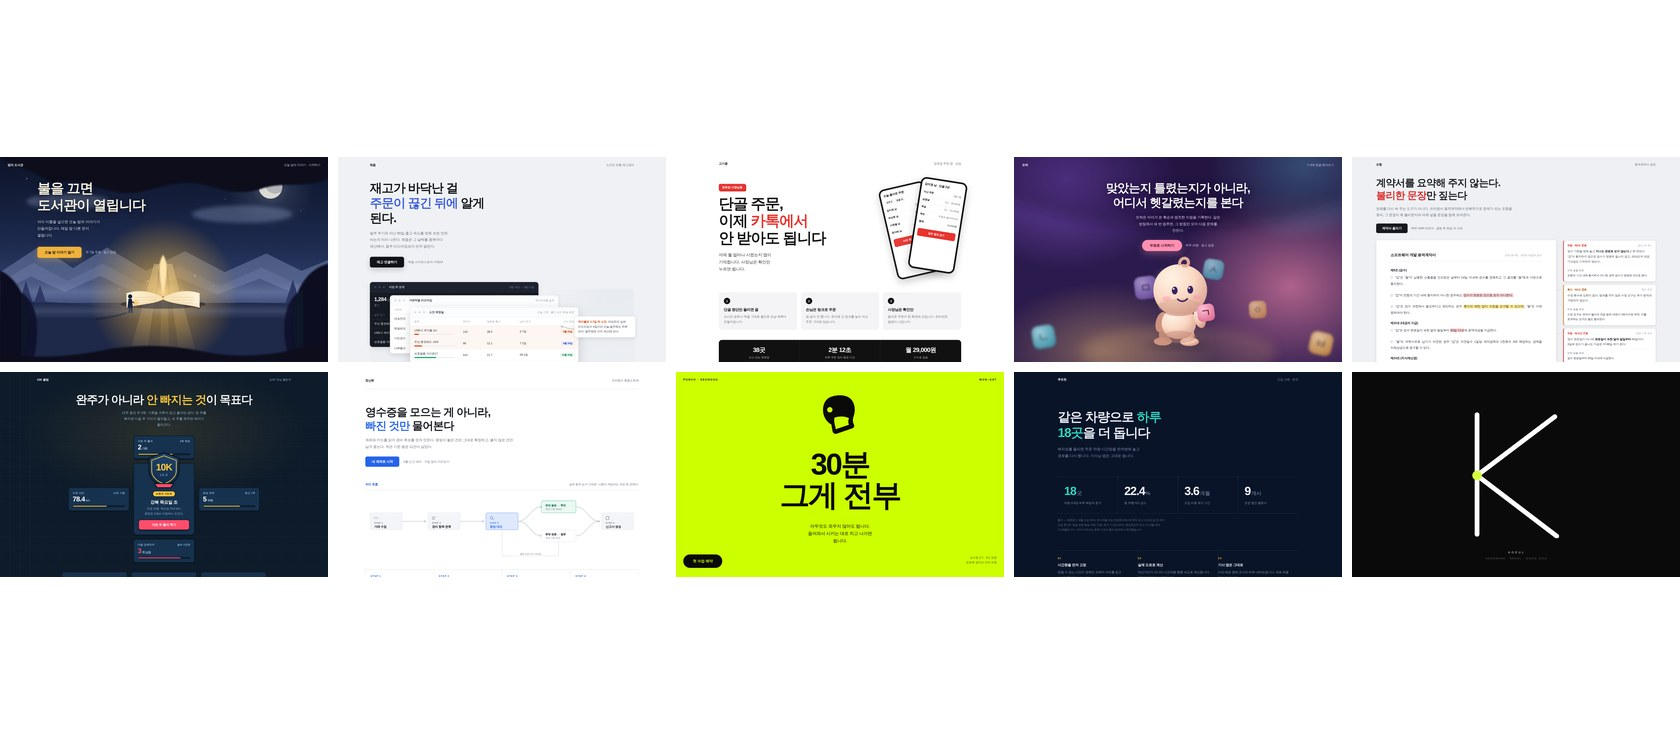
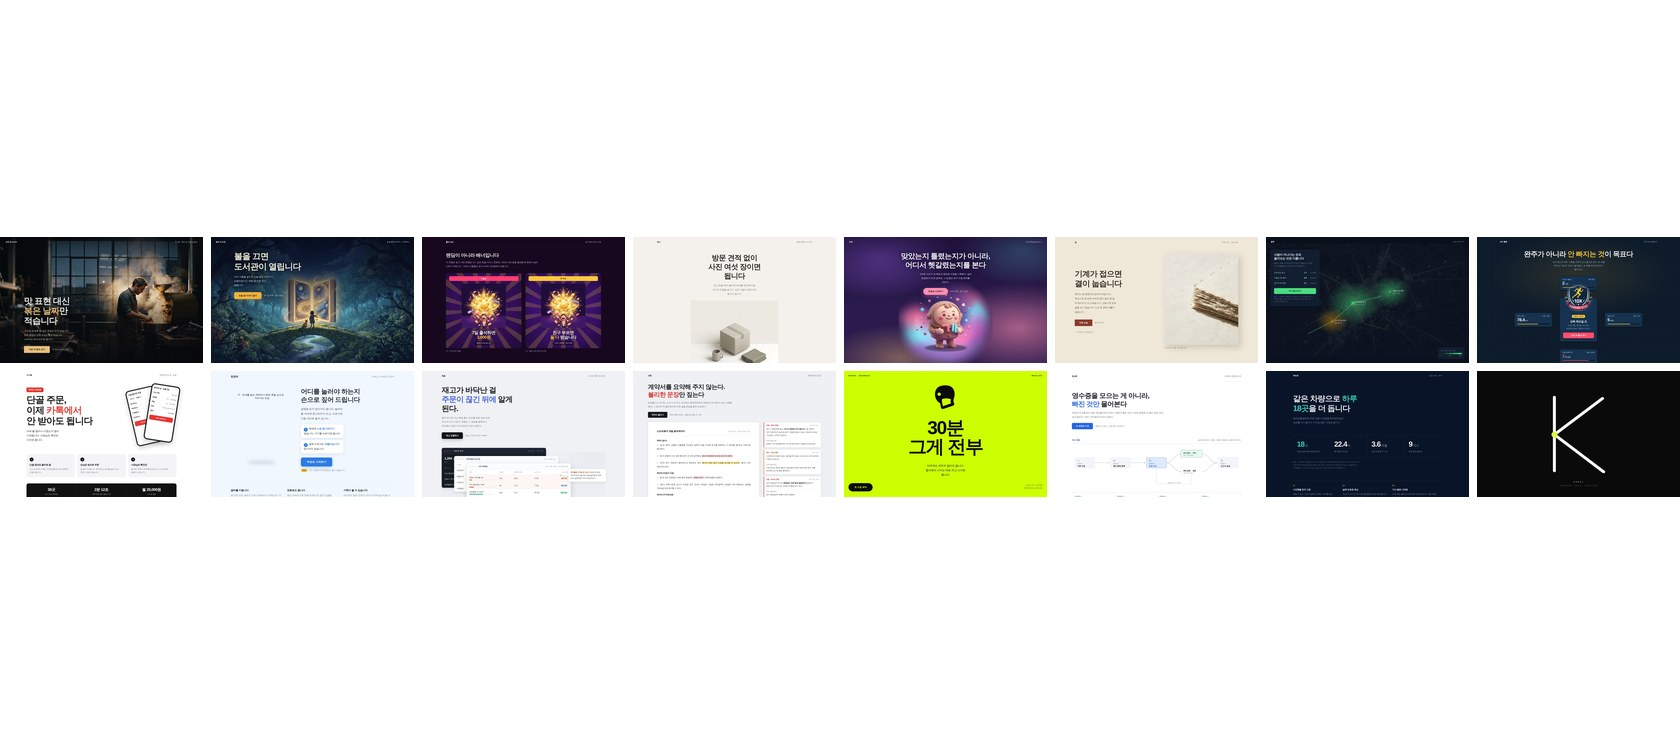
07 / SYSTEM — 16유형으로 확장, AI 이미지 반영
이미지를 쓸 수 있는 유형이 4개뿐이라고 본 것이 오판이었다. 23유형의
imagery 명세를 전부 훑으니 13개가 이미지 주인공이었고, 그중 가장
성격이 다른 6종을 새로 만들어 16벌이 됐다.

항목마다 '명세'(그 유형이 정한 수치)와 '한 일'을 나란히 뒀다.
취향이 아니라 규칙으로 작업한다는 것이 보여야 하기 때문이다.

이 페이지의 논지는 두 쌍에 있다.
- T13 무광 매트, 반사·금속 금지 / T22 3D 렌더, 광택 허용
  같은 3D 인데 재질 규칙이 정반대다.
- 층을 쓸 수 있는 유형 / 평면이 규칙인 유형
  T14 는 그림자 없음, T06 은 그림자 절대 금지다. 여기에 입체를
  넣으면 그 유형이 아니게 된다.

메인 카드 스트립도 16벌 8x2 로 교체했다.
T18·T19 는 생성 이미지 안에 글자가 박혀 나와 재생성 대기 중이다.

검증 — 빌드 통과, JS 에러 0, 안 뜬 이미지 0, 가로 넘침 없음.

Claude-Session: https://claude.ai/code/session_01HZ2ccqveZ9fPxdjPEzqgGf

diff --git a/app/work/design-system/page.tsx b/app/work/design-system/page.tsx
@@ -10,7 +10,7 @@ export const metadata: Metadata = {
   title: "웹디자인 유형 시스템",
   openGraph: {
     title: "웹디자인 유형 시스템",
-    images: ["/img/ds-t23.jpg"],
+    images: ["/img/ds-t09.jpg"],
   },
 };
 
@@ -33,12 +33,28 @@ const GROUPS: { layers: string; head: string; lede: string; items: Sample[] }[] 
       lede: "전경·중경·배경을 분리하고 층마다 그림자 단계와 선명도를 다르게 준다. 23유형 중 7개만 여기에 해당한다.",
       items: [
         {
+          id: "T09",
+          name: "시네마틱 씬",
+          img: "/img/ds-t09.jpg",
+          subject: "새벽 로스터리 — 원두 정기 배송",
+          rule: "21:9 풀블리드 · 역광 + 림라이트 · 색온도 3200~4500K · 전경(흐림) / 중경(초점) / 배경(흐림)",
+          did: "장면을 명세대로 주문해 받았다. 창에서 들어온 역광이 연기를 드러내고 작업자 어깨에 림라이트가 걸린다. 텍스트가 배경에 묻히는 것이 이 유형의 안티패턴이라, 카피가 앉는 아래쪽만 누르는 스크림을 따로 얹고 비네팅과 필름 그레인을 더했다.",
+        },
+        {
           id: "T23",
           name: "판타지 일러스트 렌더",
           img: "/img/ds-t23.jpg",
-          subject: "밤의 도서관 — 심야 서점·도서관 찾기",
-          rule: "전경이 프레임을 감싸 깊이를 만든다 · 배경은 채도 −40%",
-          did: "13겹으로 쌓고 거리에 따라 채도를 떨어뜨렸다. 초점면 밖은 흐리고, 광원 하나에 모든 그림자 방향을 맞췄다. 먼지는 세 가지 속도로 따로 떠다닌다.",
+          subject: "밤의 도서관 — 아이 이름으로 만드는 밤 이야기",
+          rule: "16:9 풀블리드 · 주제는 프레임의 1/3 · 한 컷 안에서 화풍·광원 통일",
+          did: "처음에는 이 장면을 SVG로 직접 그렸는데 그게 이 유형을 평면적으로 만든 원인이었다. placement가 '풀블리드'인 유형은 이미지가 곧 화면이다. 생성 이미지를 배경으로 놓고 SVG는 먼지 파티클만 남겼다.",
+        },
+        {
+          id: "T13",
+          name: "소프트 3D 정물",
+          img: "/img/ds-t13.jpg",
+          subject: "담다 — 사진으로 받는 이사 견적",
+          rule: "1:1 · 하단 2/3 · 무광 매트. 반사·금속 금지",
+          did: "같은 3D인데 아래 T22와 규칙이 정반대다. 여기서는 광택이 보이면 실패다. 상자와 머그, 접은 담요를 무광으로 받아 떠 있는 정물로 놓고 그림자만 반대 위상으로 움직이게 했다.",
         },
         {
           id: "T21",
@@ -46,14 +62,14 @@ const GROUPS: { layers: string; head: string; lede: string; items: Sample[] }[] 
           img: "/img/ds-t21.jpg",
           subject: "채움 — 소규모 유통 재고관리",
           rule: "앞 y18/blur44/16% · 뒤 y8/blur20/10% · 겹침 오프셋 = 패널 폭의 12%",
-          did: "그림자 값을 명세 그대로 썼다. 패널 세 장을 좌상→우하로 계단처럼 놓고, 뒤 한 장만 다크로 바꿔 리듬을 만들었다. 표 안은 실제로 계산이 되는 값만 넣었다.",
+          did: "그림자 값을 명세 그대로 썼다. 패널 세 장을 좌상→우하로 계단처럼 놓고, 뒤 한 장만 다크로 바꿔 리듬을 만들었다. '실제 데이터, 더미 금지'라 표 안은 소진 예정일과 실측 리드타임으로 실제 계산이 되는 값만 넣었다.",
         },
         {
           id: "T18",
           name: "K-커머스 상세페이지",
           img: "/img/ds-t18.jpg",
           subject: "고기왕 — 정육점 단골 주문",
-          rule: "흰 배경 / 뒤 목업 / 앞 목업 · 국문 굵은 타이포",
+          rule: "폰 목업은 높이의 55% · 인물은 4:5, 타깃 연령대 · 고채도",
           did: "화면 두 장을 겹쳐 앞뒤를 만들고, 붉은 강조를 문장 안에서 한 번만 썼다.",
         },
       ],
@@ -64,12 +80,36 @@ const GROUPS: { layers: string; head: string; lede: string; items: Sample[] }[] 
       lede: "바닥 한 장 위에 주제 한 장. 얹는 규칙과 그림자 한 단계가 유형의 성격을 정한다.",
       items: [
         {
+          id: "T22",
+          name: "하이프 광고 배너",
+          img: "/img/ds-t22.jpg",
+          subject: "출석 코인 — 앱 이벤트 배너 소재",
+          rule: "1:1 · 프레임의 55% · 3D 렌더. 광택 허용 · 이펙트 3종까지",
+          did: "위 T13과 나란히 두면 이 시스템이 재질까지 구분한다는 것이 보인다. 여기서는 광택이 규칙이다. 다만 '이 유형을 랜딩 본문에 그대로 사용'하는 것이 안티패턴이라, 산출물을 랜딩이 아니라 정사각 배너 두 벌로만 만들었다.",
+        },
+        {
+          id: "T16",
+          name: "아날로그 텍스처",
+          img: "/img/ds-t16.jpg",
+          subject: "결 — 손으로 매는 노트",
+          rule: "4:5 세로 접사 · 프레임의 45% · 측광. 결이 드러나야 한다 · 여백 60% 이상",
+          did: "'텍스처를 사진 필터로만 얹어 물성이 없는 것'이 이 유형의 첫 번째 안티패턴이다. 그래서 질감을 흉내 내지 않고 한지 단면을 측광으로 받아 섬유 결이 실제로 보이게 했다. 그림자는 측광 방향 하나뿐이다.",
+        },
+        {
           id: "T10",
           name: "그라데이션 마스코트",
           img: "/img/ds-t10.jpg",
           subject: "또박 — 7–9세 한글 받아쓰기",
-          rule: "오브젝트가 마스코트 뒤로 지나간다 · 무광 클레이, 금속·유리 금지",
-          did: "자모 블록이 머리 뒤로 물리게 배치하고, 멀수록 흐리고 옅게 했다. 앞쪽 블록은 프레임 밖으로 잘려 나가 더 가깝게 읽힌다. 광택이 생기면 클레이가 아니라서 빛은 선이 아니라 흐린 얼룩으로 넣었다.",
+          rule: "1:1 · 중앙 하단 · 무광 클레이. 금속·유리 금지 · 전신, 발목 자르기 금지",
+          did: "생성 이미지에 자체 배경이 구워져 나와 사각 경계가 드러났다. radial 마스크로 가장자리를 페이드시켜 페이지 메쉬에 녹였다. 배경은 '보라→파랑 선형'이 AI 기본값이자 안티패턴이라, 핑크·시안·앰버를 벌려 놓은 네 덩어리로 만들었다.",
+        },
+        {
+          id: "T05",
+          name: "데이터·지도 시각화",
+          img: "/img/ds-t05.jpg",
+          subject: "골목 — 상권 유동 분석",
+          rule: "풀블리드 · 패널만 y10/blur30/24%, 데이터 마크에는 그림자 금지 · 순차형 1스케일 + 강조 1색",
+          did: "'축·라벨 없는 가짜 차트'가 안티패턴이라 역할을 나눴다. 생성 이미지는 야간 항공뷰 바탕으로만 쓰고, 히트맵·동선·핀·범례·눈금·출처는 전부 실제 SVG로 얹었다. 표본 30건 미만 격자를 제외했다는 것까지 적었다.",
         },
         {
           id: "T07",
@@ -84,8 +124,16 @@ const GROUPS: { layers: string; head: string; lede: string; items: Sample[] }[] 
           name: "게임 배지",
           img: "/img/ds-t11.jpg",
           subject: "10K 클럽 — 12주 러닝 챌린지",
-          rule: "그림자는 y3/blur0 하드섀도우 한 겹 · 엠블럼이 카드 위에 올라탄다",
-          did: "엠블럼이 카드 위로 걸치게 하고, 스탯 카드 네 장을 상하좌우 등거리로 놓았다. 진입은 한 번 튀고 멈춘다 — 상시 반짝임은 이 유형의 금지 사항이다.",
+          rule: "그림자는 y3/blur0 하드섀도우 한 겹 · 엠블럼이 카드 위에 올라탄다 · 사방 스탯 등거리",
+          did: "생성 이미지가 방패 주변에 가짜 스탯 카드까지 그려 넣어 실제 카드와 충돌했다. 방패만 중앙 54%로 잘라 쓰고 남은 모서리는 마스크로 지웠다. 엠블럼이 위 카드를 덮지 않게 간격을 키우되 행·열 같은 값으로 두어 등거리는 지켰다.",
+        },
+        {
+          id: "T19",
+          name: "캐릭터 안내",
+          img: "/img/ds-t19.jpg",
+          subject: "천천히 — 어르신 스마트폰 도우미",
+          rule: "좌 캐릭터 / 우 화면 40:60 · 캐릭터는 높이의 70% · 캐릭터가 화면을 절대 가리지 않는다",
+          did: "'본문 13px 이하'가 이 유형의 안티패턴이다. 타깃과 모순되기 때문이다. 그래서 기본 글자 크기를 17px로 올리고 버튼도 키웠다. 말풍선은 상한인 두 개까지만 썼다.",
         },
       ],
     },
@@ -99,8 +147,8 @@ const GROUPS: { layers: string; head: string; lede: string; items: Sample[] }[] 
           name: "프로세스 다이어그램",
           img: "/img/ds-t14.jpg",
           subject: "정산봇 — 프리랜서 종합소득세",
-          rule: "그림자 없음 · 노드는 1px 테두리로만 구분 · 노드 8개 미만",
-          did: "좌→우 단방향, 분기는 위아래 대칭, 점선 루프가 사람이 답한 건을 대조 단계로 되돌린다. 장식용 다이어그램이 아니라 실제 처리 순서 그대로다.",
+          rule: "그림자 없음 · 노드는 1px 테두리로만 구분 · 노드 8개 미만 · 사진 금지",
+          did: "좌→우 단방향, 분기는 위아래 대칭, 점선 루프가 사람이 답한 건을 대조 단계로 되돌린다. '실제 동작과 다른 장식용 다이어그램'이 안티패턴이라 처리 순서 그대로 그렸다.",
         },
         {
           id: "T06",
@@ -108,14 +156,14 @@ const GROUPS: { layers: string; head: string; lede: string; items: Sample[] }[] 
           img: "/img/ds-t06.jpg",
           subject: "KOEUL — 수제화 공방",
           rule: "여백 70% 이상 · 심볼은 단변의 55~70% · 그림자 절대 금지",
-          did: "심볼이 단변의 33.8%로 렌더되고 있었다. 선언한 크기는 맞는데 그림이 자기 viewBox의 57%만 채워서였다. 경계를 재서 다시 맞추니 62%가 됐다.",
+          did: "심볼이 단변의 33.8%로 렌더되고 있었다. 선언한 크기는 맞는데 그림이 자기 viewBox의 57%만 채워서였다. 경계를 재서 다시 맞추니 62%가 됐다. 눈으로는 안 잡히고 재야 잡히는 종류의 어긋남이다.",
         },
         {
           id: "T17",
           name: "하이비즈 형광",
           img: "/img/ds-t17.jpg",
           subject: "PUNCH — 성수동 복싱장",
-          rule: "형광 한 색 + 검정 · 국문 초대형 타이포",
+          rule: "형광 한 색 + 검정 · 실루엣만, 그라데이션 금지",
           did: "설명을 줄이고 숫자와 문장 하나로 화면을 채웠다.",
         },
         {
@@ -123,7 +171,7 @@ const GROUPS: { layers: string; head: string; lede: string; items: Sample[] }[] 
           name: "스탯 프루프",
           img: "/img/ds-t20.jpg",
           subject: "루트핏 — 물류 배차 최적화",
-          rule: "수치가 주인공 · 출처와 표본을 같이 적는다",
+          rule: "수치가 주인공 · 이미지는 방해 · 출처와 표본을 같이 적는다",
           did: "숫자 옆에 언제·몇 개사·어떤 조건인지를 붙였다. 근거 없는 수치는 이 유형에서 가장 빠르게 신뢰를 깎는다.",
         },
       ],
@@ -373,7 +421,7 @@ export default function DesignSystemPage() {
             },
             {
               label: "결과",
-              text: "유형을 지정하면 그 명세대로 페이지가 나옵니다. 아래 10벌은 전부 같은 시스템에서, 서로 다른 유형을 지정해 만든 것입니다. 색만 바꾼 것이 아니라 층 수·그림자 값·여백 비율·이미지 처리가 유형마다 다릅니다.",
+              text: "유형을 지정하면 그 명세대로 페이지가 나옵니다. 아래 16벌은 전부 같은 시스템에서, 서로 다른 유형을 지정해 만든 것입니다. 색만 바꾼 것이 아니라 층 수·그림자 값·여백 비율·이미지 처리가 유형마다 다릅니다.",
             },
           ]}
         />
@@ -408,7 +456,7 @@ export default function DesignSystemPage() {
                   maxWidth: 640,
                 }}
               >
-                아래 10벌을 <strong>쓸 수 있는 레이어 수</strong>로 묶었습니다.
+                아래 16벌을 <strong>쓸 수 있는 레이어 수</strong>로 묶었습니다.
                 보기 좋은 순서가 아니라 명세가 정한 순서입니다.
               </p>
               <p
@@ -422,7 +470,7 @@ export default function DesignSystemPage() {
               >
                 층을 쓸 수 있는 유형과 평면이 규칙인 유형은 애초에 다른 물건입니다.
                 전부에 입체를 넣으면 유형을 지정한 의미가 사라집니다. 23유형 중
-                3겹은 7개, 2겹은 9개, 1겹은 6개입니다.
+                3겹은 7개, 2겹은 9개, 1겹은 6개입니다. 여기서는 각 묶음의 대표를 골랐습니다.
               </p>
             </div>
           </div>

diff --git a/app/page.tsx b/app/page.tsx
@@ -733,11 +733,11 @@ export default function Home() {
             href="/work/design-system"
             label="07 / SYSTEM"
             title="웹디자인 유형 시스템"
-            desc="서비스 833건을 시각 유형으로 분류하고, 유형마다 팔레트·구도·입체를 수치로 고정한 자체 도구"
+            desc="서비스 833건을 시각 유형으로 분류하고, 유형마다 팔레트·구도·입체·이미지 처리를 수치로 고정한 자체 도구. 아래는 같은 시스템에서 유형만 바꿔 만든 16벌"
             image={
               <img
                 src="/img/ds-strip.jpg"
-                alt="10개 유형을 각각 다른 서비스에 적용한 결과 — 판타지 일러스트, UI 패널 캡처, 커머스 상세, 마스코트, 문서 캡처, 게임 배지, 프로세스 다이어그램, 형광 타이포, 스탯, 모노 심볼"
+                alt="16개 유형을 각각 다른 서비스에 적용한 결과 — 시네마틱 씬, 판타지 일러스트, 하이프 배너, 무광 3D 정물, 클레이 마스코트, 아날로그 접사, 데이터 지도, 게임 배지, 커머스 상세, 캐릭터 안내, UI 패널 캡처, 문서 캡처, 형광 타이포, 프로세스 다이어그램, 스탯, 모노 심볼"
                 style={{
                   width: "100%",
                   aspectRatio: "16/7",
